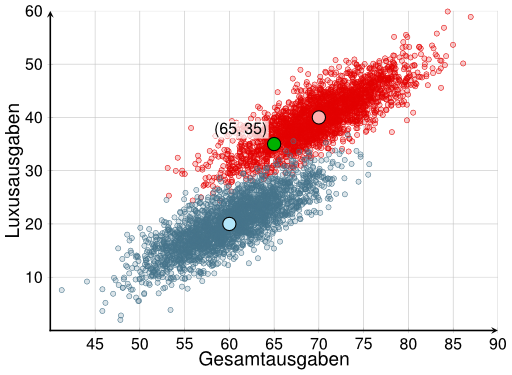
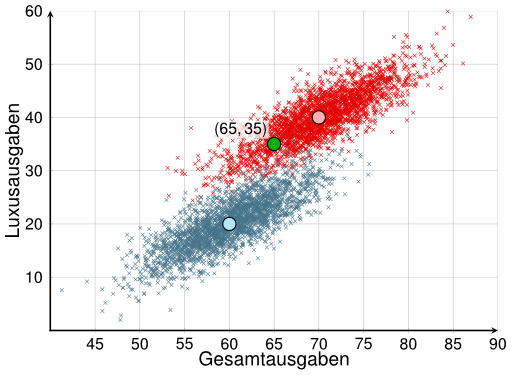
back to x from * marker

diff --git a/tikz/csv-2d-gaussian-multivarate-distributions/csv-2d-gaussian-multivarate-distributions.tex b/tikz/csv-2d-gaussian-multivarate-distributions/csv-2d-gaussian-multivarate-distributions.tex
@@ -58,8 +58,8 @@ scatter,
 only marks,
 point meta=explicit symbolic,
 scatter/classes={
-a={mark=*,red!90!black,fill opacity=0.2},%
-b={mark=*,cyan!50!black,fill opacity=0.2}},
+a={mark=x,red!90!black,fill opacity=0.2},%
+b={mark=x,cyan!50!black,fill opacity=0.2}},
 ]
 table[col sep=comma, meta=label] {data.csv};
 
